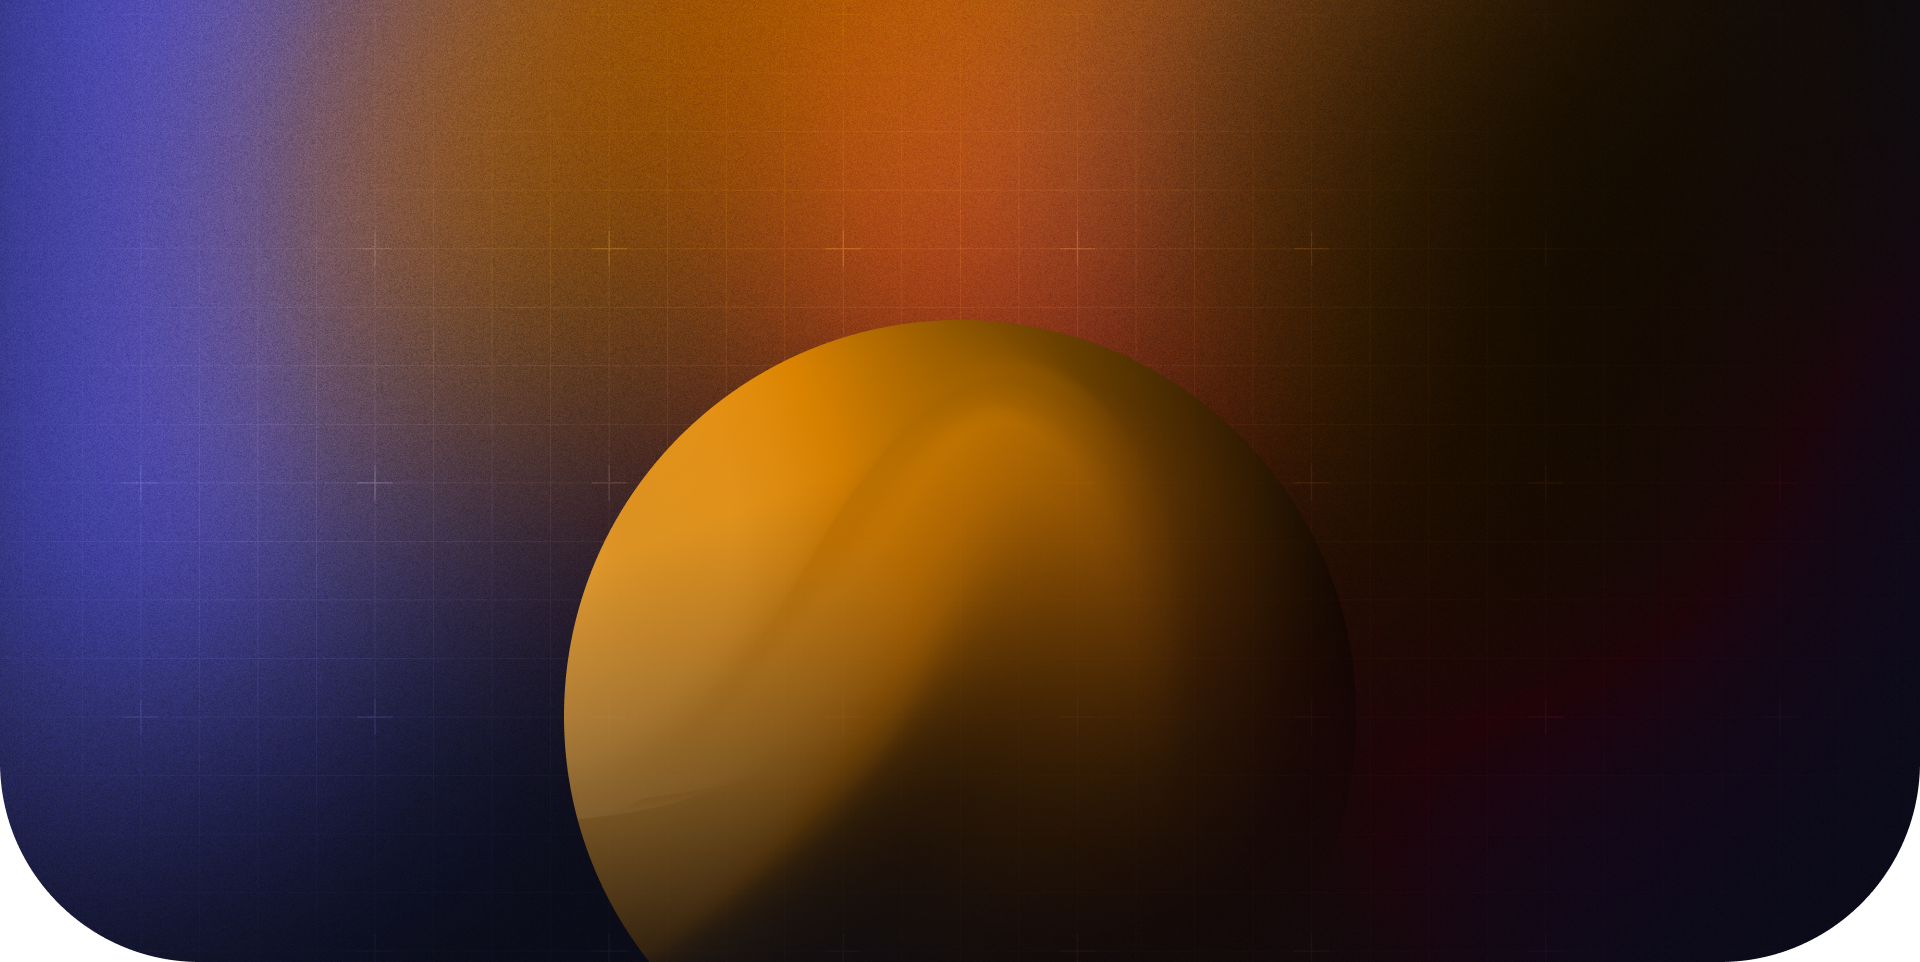
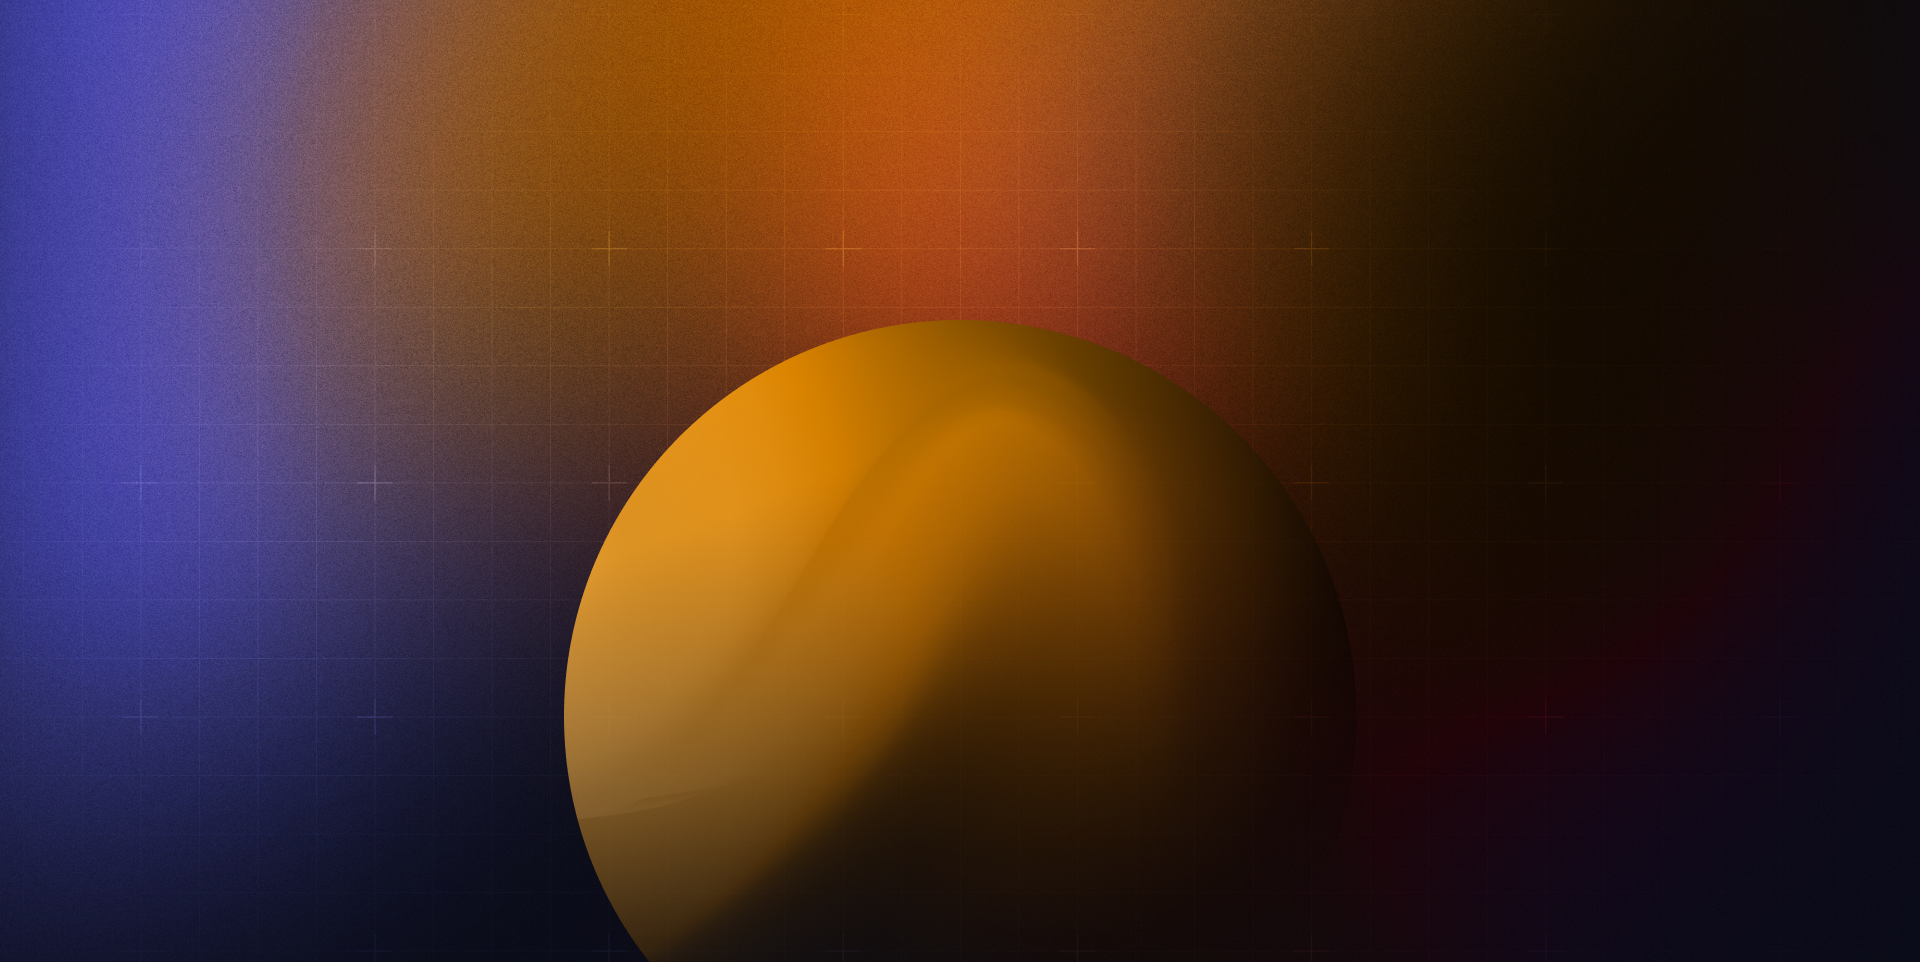
updated index.html

Changed region(s): [[0.875, 0.842, 1.0, 1.0], [0.0, 0.842, 0.125, 1.0]]

diff --git a/css/style.css b/css/style.css
@@ -1,5 +1,15 @@
 @import url("https://fonts.googleapis.com/css2?family=Playfair+Display:ital,wght@0,400..900;1,400..900&display=swap");
 
+
+@font-face {
+  font-family: objectivity;
+  src: url('../assets/font/objectivity.bold.otf');
+}
+* {
+  margin: 0;
+  padding: 0;
+  box-sizing: border-box;
+}
 /* .playfair-display-<uniquifier> {
   font-family: "Playfair Display", serif;
   font-optical-sizing: auto;
@@ -8,7 +18,7 @@
 } */
 
 .container {
-  max-width: 1170px;
+  max-width: 1681px;
   margin: 0 auto;
   padding: 0 15px;
   width: 100%;
@@ -29,6 +39,9 @@ a {
 ul {
   list-style: none;
 }
+span {
+  display: inline-block;
+}
 
 /* Header Section */
 
@@ -37,16 +50,81 @@ header {
   left: 0;
   top: 0;
   right: 0;
+  padding: 15px 0;
 }
 
 .nav-collapse > ul,
 nav {
   display: flex;
+  align-items: center;
+}
+
+.navbar-brand {
+  position: relative;
+  margin-left: auto;
+  /* height: fit-content; */
+  width: 54px;
+  height: 4.7px;
+  background: white;
+  border-radius: 1px;
+}
+
+.navbar-brand::after {
+  position: absolute;
+  content: "";
+  width: 16.29px;
+  height: 4.7px;
+  background: white;
+  top: -9.6px;
+  right: 0;
+  border-radius: 1px;
+}
+
+.navbar-brand::before {
+  position: absolute;
+  content: "";
+  width: 30.79px;
+  height: 4.7px;
+  top: 9.6px;
+  right: 0;
+  background: white;
+  border-radius: 1px;
+}
+
+/* .navbar-brand > span {
+  width: 54px;
+  height: 4.7px;
+  background: white;
+} */
+
+.nav-collapse {
+  display: none;
 }
 
 /* Banner Section */
 
-.banner-section{
+.banner-section {
   min-height: 100vh;
-  background: url('');
+  background: url("../assets/img/BG.png") center/cover no-repeat;
+  border-radius: 0 0 100px 100px;
+  padding: 87px 0 0;
+  text-align: center;
+}
+
+h1 {
+  -webkit-background-clip: text;
+  background: linear-gradient(
+    to left,
+    #b1540a,
+    rgba(255, 255, 255, 1),
+    rgba(255, 255, 255, 25%)
+  );
+  color: transparent;
+  background-clip: text;
+  font-family: objectivity, serif;
+}
+
+/* Section Filler */
+.section2 {
+  min-height: 100vh;
 }

diff --git a/index.html b/index.html
@@ -17,9 +17,7 @@
                 <img src="./assets/img/Vector.png" alt="" />
               </a>
             </div>
-            <div class="navbar-brand">
-              <span></span>
-            </div>
+            <div class="navbar-brand"></div>
             <div class="nav-collapse">
               <ul>
                 <li><a href="">Home</a></li>
@@ -35,7 +33,15 @@
 
     <!-- Banner Section -->
     <section class="banner-section">
-      <div class="container"></div>
+      <div class="container">
+        <h1>
+          <span>Designed to Fit Your</span>
+          <br />
+          Wordlview
+        </h1>
+      </div>
     </section>
+
+    <div class="section2"></div>
   </body>
 </html>
